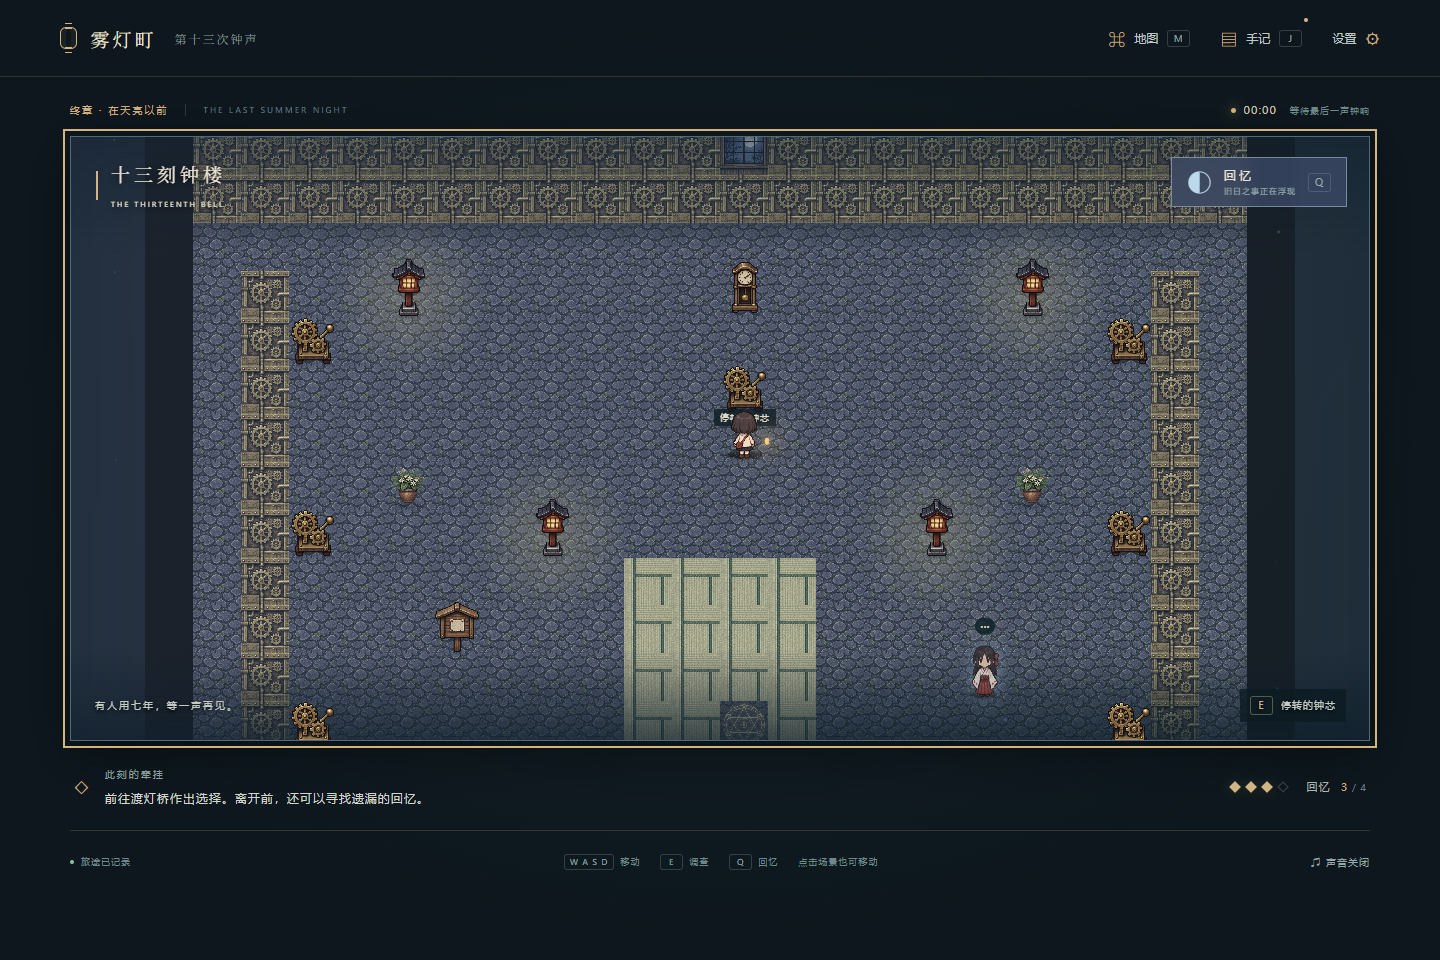
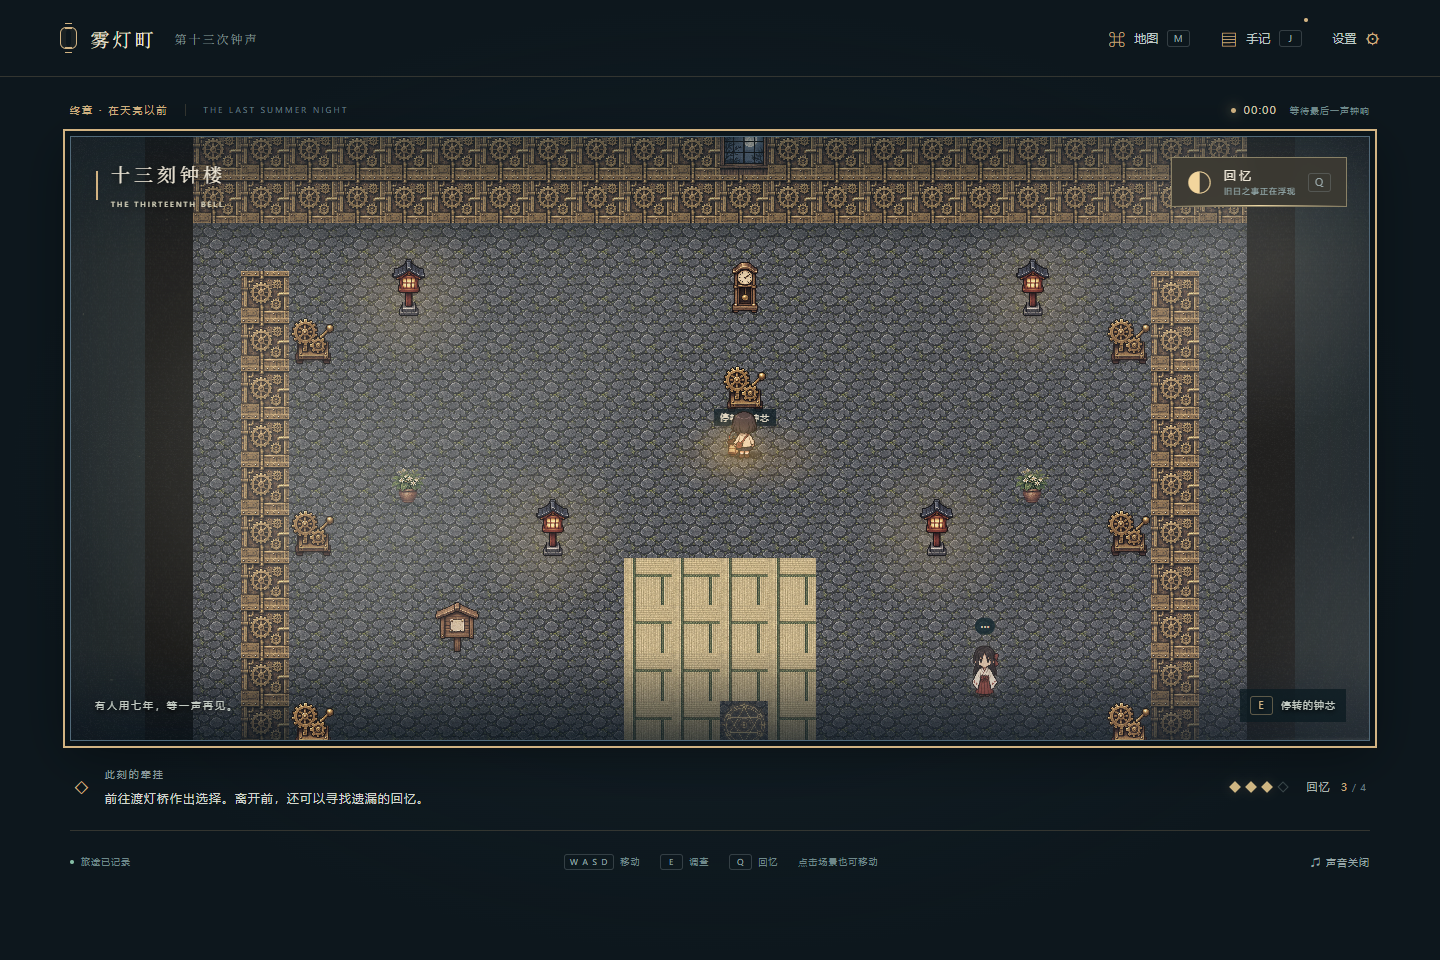
Give the guide lantern a sprite, light pool and layered memory atmosphere

diff --git a/game.js b/game.js
@@ -7,13 +7,16 @@
   let target = null, pendingObject = null, nearest = null, lastFrame = performance.now(), saveTick = 0, lastWalk = false;
   let route = [], movementSavePending = false, walkSheetReady = false;
   const motion=Move.create(),walkSheet=new Image();
+  let lanternPoint={x:0,y:0};
   walkSheet.onload=()=>{walkSheetReady=true;$('player').classList.add('has-walk-sheet');$('player').style.setProperty('--walk-ratio',(walkSheet.naturalWidth/3)/(walkSheet.naturalHeight/4));};
   walkSheet.src='assets/mio-walk-v2.png';
   let dialogueLines = [], dialogueIndex = 0, dialogueEnd = null, typeTimer = null, typing = false, currentText = '';
   let toastTimer = null, splashTimer = null, transitionTimer = null, transitioning = false, puzzle = null, storageWarning = false;
   const keys = new Set();
   const settings = Object.assign({ sound: false, instantText: false, particles: true }, read(KEYS.settings) || {});
-  const reducedMotion = window.matchMedia('(prefers-reduced-motion: reduce)').matches;
+  const motionPreference=window.matchMedia('(prefers-reduced-motion: reduce)');
+  let reducedMotion=motionPreference.matches;
+  motionPreference.addEventListener('change',event=>{reducedMotion=event.matches;});
   if (reducedMotion) settings.instantText = true;
   let unlocked = read(KEYS.collection);
   unlocked = Array.isArray(unlocked) ? unlocked.filter(x => C.ENDINGS.includes(x)) : [];
@@ -106,6 +109,10 @@
     player.dataset.tileX = state.player.x; player.dataset.tileY = state.player.y;
     $('world').dataset.zone = state.zone;
     player.style.zIndex = String(R.depth(visual.y));
+    const lamp=KiriLighting.pose(state.player.facing,walking,performance.now(),reducedMotion),lampNode=player.querySelector('.player-lantern'),size=R.view.tile;
+    lampNode.style.left=`calc(50% + ${lamp.x*size}px)`;lampNode.style.top=`calc(100% + ${lamp.y*size}px)`;
+    lampNode.style.setProperty('--lamp-angle',lamp.angle+'deg');lampNode.dataset.behind=String(lamp.behind);
+    lanternPoint={x:point.x+lamp.x*size,y:point.y+lamp.y*size};
     const frame=walking?motion.frame:1;
     player.querySelector('.sprite').style.backgroundPosition = `${walkSheetReady?frame*50:0}% ${state.player.facing * 100 / 3}%`;
     player.dataset.walkFrame=String(frame);player.dataset.facing=String(state.player.facing);
@@ -169,7 +176,7 @@
     S.phase(state.phase === 'echo'); renderWorld(); save();
     if (!state.seen.includes('echo-tutorial')) {
       state.seen.push('echo-tutorial');
-      toast('回忆中会出现褪去的文字与旧日的物件。蓝色光点能找回一段回忆。');
+      toast('回忆中会出现褪去的文字与旧日的物件。细小光点能找回一段回忆。');
     }
   }
   function interact(obj) {
@@ -391,7 +398,7 @@
       body += C.CLUES.map(id => { const clue = D.clues[id], found = state.clues.includes(id); return `<article class="journal-entry ${found ? '' : 'locked'}"><h3>${found ? clue.title : '尚未浮现的文字'}</h3><small>${clue.place}</small><p>${found ? clue.text : '在回忆中，调查这里留下的文字。'}</p></article>`; }).join('');
     } else if (tab === 'memories') {
       body += `<p class="journal-intro">不是只记住她做过什么，也要记住她为什么而活。<br>已找回 ${state.memories.length} / 4 段回忆。</p>`;
-      body += C.MEMORIES.map(id => { const m = D.memories[id], found = state.memories.includes(id); return `<article class="journal-entry ${found ? '' : 'locked'}"><h3>${found ? m.title : '一段还未找回的回忆'}</h3><small>${m.place} · 回忆</small><p>${found ? m.text : '按 Q 照见旧日，寻找这里的蓝色光点。'}</p></article>`; }).join('');
+      body += C.MEMORIES.map(id => { const m = D.memories[id], found = state.memories.includes(id); return `<article class="journal-entry ${found ? '' : 'locked'}"><h3>${found ? m.title : '一段还未找回的回忆'}</h3><small>${m.place} · 回忆</small><p>${found ? m.text : '按 Q 照见旧日，寻找这里的细小光点。'}</p></article>`; }).join('');
     } else {
       body += '<p class="journal-intro">一盏灯，承不起所有人的夜晚。<br>有人愿意和你一起，把名字留到明天。</p>';
       const bonds = [['promisedRen', '莲的约定', '回到车站，回应他希望带给栞的那句话。'], ['helpedNagi', '凪婆婆的纸灯', '在灯见街帮婆婆修好灯，听她把往事说完。'], ['heardShiori', '栞真正的心愿', '在钟楼的回忆中，听完姐姐未说出口的话。']];
@@ -412,7 +419,7 @@
   }
   function openSettings() {
     const hasManual = !!getSave(KEYS.manual);
-    const html = `<div class="body-copy"><p>这是一段可以慢慢走完的旅程。所有谜题都提供三层提示，试错不会失去物品。</p></div><div class="setting-row"><div><b>环境音乐</b><small>原创合成钟声与缓慢的钢琴音色。</small></div><button id="setting-sound">${S.enabled ? '已开启' : '已关闭'}</button></div><div class="setting-row"><div><b>对话直接显示</b><small>关闭逐字浮现；任意时刻也可按 E 显示全文。</small></div><button id="setting-text">${settings.instantText ? '已开启' : '已关闭'}</button></div><div class="setting-row"><div><b>漂浮光点</b><small>减少场景中的环境动画。</small></div><button id="setting-particles">${settings.particles ? '已开启' : '已关闭'}</button></div><div class="help-grid"><div><kbd>WASD / ↑↓←→</kbd> 移动</div><div><kbd>E / Enter</kbd> 调查、继续</div><div><kbd>Q</kbd> 现世 / 回忆</div><div><kbd>J</kbd> 澪的手记</div><div><kbd>M</kbd> 旧地图</div><div><kbd>Esc</kbd> 关闭窗口</div></div><div class="body-copy"><p>点击地面可移动，点击人物或光点会自动走近并调查。手机可使用屏幕方向键。回忆中的蓝色光点能找回故事片段。</p><p>进度会自动保存在当前浏览器。请用同一个地址和浏览器继续；清理网站数据会删除存档。</p></div>${state && screen === 'play' ? `<div class="modal-actions"><button class="subtle-button" id="load-manual" ${hasManual ? '' : 'disabled'}>读取手动存档</button><button id="save-manual" class="button primary">手动存档 ⟶</button></div>` : ''}`;
+    const html = `<div class="body-copy"><p>这是一段可以慢慢走完的旅程。所有谜题都提供三层提示，试错不会失去物品。</p></div><div class="setting-row"><div><b>环境音乐</b><small>原创合成钟声与缓慢的钢琴音色。</small></div><button id="setting-sound">${S.enabled ? '已开启' : '已关闭'}</button></div><div class="setting-row"><div><b>对话直接显示</b><small>关闭逐字浮现；任意时刻也可按 E 显示全文。</small></div><button id="setting-text">${settings.instantText ? '已开启' : '已关闭'}</button></div><div class="setting-row"><div><b>漂浮光点</b><small>减少场景中的环境动画。</small></div><button id="setting-particles">${settings.particles ? '已开启' : '已关闭'}</button></div><div class="help-grid"><div><kbd>WASD / ↑↓←→</kbd> 移动</div><div><kbd>E / Enter</kbd> 调查、继续</div><div><kbd>Q</kbd> 现世 / 回忆</div><div><kbd>J</kbd> 澪的手记</div><div><kbd>M</kbd> 旧地图</div><div><kbd>Esc</kbd> 关闭窗口</div></div><div class="body-copy"><p>点击地面可移动，点击人物或光点会自动走近并调查。手机可使用屏幕方向键。回忆中闪动的细小光点能找回故事片段。</p><p>进度会自动保存在当前浏览器。请用同一个地址和浏览器继续；清理网站数据会删除存档。</p></div>${state && screen === 'play' ? `<div class="modal-actions"><button class="subtle-button" id="load-manual" ${hasManual ? '' : 'disabled'}>读取手动存档</button><button id="save-manual" class="button primary">手动存档 ⟶</button></div>` : ''}`;
     openModal('旅途设置', 'MAKE YOURSELF AT HOME', 'settings', html);
     $('setting-sound').onclick = async () => { await toggleSound(); if (modalKind === 'settings') $('setting-sound').textContent = S.enabled ? '已开启' : '已关闭'; };
     $('setting-text').onclick = () => { settings.instantText = !settings.instantText; write(KEYS.settings, settings); $('setting-text').textContent = settings.instantText ? '已开启' : '已关闭'; };
@@ -536,7 +543,6 @@
   window.addEventListener('pagehide', save);
   document.addEventListener('visibilitychange', () => { keys.clear(); clearTarget(); lastFrame = performance.now(); if (state) save(); });
   const ctx = $('atmosphere').getContext('2d');
-  const motes = Array.from({ length: 22 }, (_, i) => ({ x: ((i * 137.51) % 100) / 100, y: ((i * 53.29) % 100) / 100, speed: .13 + i % 4 * .08, size: i % 3 ? 1 : 2 }));
   let canvasWidth = 1, canvasHeight = 1;
   function resizeCanvas() {
     const rect = $('world').getBoundingClientRect(); if (!rect.width) return;
@@ -548,15 +554,7 @@
   window.addEventListener('resize', resizeCanvas);
   function paintAtmosphere(time) {
     if (!ctx) return;
-    ctx.clearRect(0, 0, canvasWidth, canvasHeight);
-    if (!settings.particles || reducedMotion) return;
-    const echo = state?.phase === 'echo';
-    motes.forEach((m, i) => {
-      const x = ((m.x + time * .000004 * m.speed) % 1) * canvasWidth;
-      const y = (m.y + Math.sin(time * .00025 + i) * .04) * canvasHeight;
-      ctx.fillStyle = echo ? `rgba(190,218,240,${.18 + Math.sin(time * .001 + i) * .12})` : `rgba(243,216,156,${.13 + Math.sin(time * .001 + i) * .1})`;
-      ctx.fillRect(x, y, m.size, m.size);
-    });
+    KiriLighting.paint(ctx,{width:canvasWidth,height:canvasHeight,tile:R.view.tile,view:R.view,point:R.project(Move.visual(motion,state.player)),lantern:lanternPoint,phase:state.phase,time,lit:!!state.flags.lantern,particles:settings.particles,reduced:reducedMotion});
   }
   function loop(now) {
     const dt = Math.min((now - lastFrame) / 1000, .05); lastFrame = now;

diff --git a/lighting.js b/lighting.js
@@ -1,0 +1,83 @@
+/* Light, depth fog and a restrained photographic memory atmosphere. */
+(function(root){
+  'use strict';
+  const lanternImage=new Image();lanternImage.src='assets/guide-lantern.png';
+  let phase=null,phaseAt=-10000,lastTime=0,mix=0,fogCanvas,grain;
+  // Anchored to the carrying hand, including the hidden far hand when facing north.
+  function pose(facing,walking,time,reduced=false){
+    const offsets=[{x:.30,y:-.25},{x:-.29,y:-.26},{x:.30,y:-.26},{x:-.24,y:-.30}];
+    const anchor=offsets[facing]||offsets[0],swing=reduced?0:Math.sin(time*(walking?.012:.002));
+    return {x:anchor.x+(walking?swing*.018:0),y:anchor.y+(walking?Math.abs(swing)*.025:0),angle:reduced?0:swing*(walking?8:2),behind:facing===3};
+  }
+  function radial(pen,x,y,r,inner,outer){
+    const g=pen.createRadialGradient(x,y,0,x,y,r);g.addColorStop(0,inner);g.addColorStop(1,outer);pen.fillStyle=g;pen.fillRect(x-r,y-r,r*2,r*2);
+  }
+  function noise(){
+    if(grain)return grain;
+    grain=document.createElement('canvas');grain.width=grain.height=128;
+    const pen=grain.getContext('2d'),data=pen.createImageData(128,128);
+    let seed=1927;for(let i=0;i<data.data.length;i+=4){seed=(Math.imul(seed,1664525)+1013904223)>>>0;const value=seed>>>24;data.data[i]=data.data[i+1]=data.data[i+2]=value;data.data[i+3]=value%3===0?35:0;}
+    pen.putImageData(data,0,0);return grain;
+  }
+  function paint(pen,{width,height,tile,view,point,lantern,phase:next,time,lit,particles,reduced}){
+    if(phase===null){phase=next;mix=next==='echo'?1:0;}
+    if(next!==phase){phase=next;phaseAt=time;}
+    const dt=Math.min(64,Math.max(0,time-lastTime));lastTime=time;
+    const target=next==='echo'?1:0;mix=reduced?target:mix+(target-mix)*(1-Math.exp(-dt/320));
+    const t=reduced||!particles?0:time,focus=lit?lantern:point;
+    pen.clearRect(0,0,width,height);pen.save();
+    // A warm pool sits on the ground; it remains when decorative particles are off.
+    if(lit){
+      pen.save();pen.translate(point.x+tile*.12,point.y-tile*.04);pen.scale(1,.43);pen.globalCompositeOperation='screen';
+      radial(pen,0,0,tile*(1.55+mix*.35),`rgba(250,182,84,${.15+mix*.07})`,'rgba(250,182,84,0)');pen.restore();
+    }
+    if(mix>.003){
+      // Low-resolution translucent fog, cleared around the lantern instead of hiding exits.
+      if(!fogCanvas)fogCanvas=document.createElement('canvas');
+      const fw=Math.ceil(width/2),fh=Math.ceil(height/2);
+      if(fogCanvas.width!==fw||fogCanvas.height!==fh){fogCanvas.width=fw;fogCanvas.height=fh;}
+      const fog=fogCanvas.getContext('2d');fog.setTransform(.5,0,0,.5,0,0);fog.clearRect(0,0,width,height);
+      for(let i=0;i<7;i++){
+        const radius=tile*(3.6+i%3),span=width+radius*2;
+        const x=((i*width*.31+t*.004*(i%2?1:-1)-view.x*tile*.18)%span+span)%span-radius;
+        const y=height*(.18+(i%4)*.24)+Math.sin(t*.00012+i)*tile*.35;
+        radial(fog,x,y,radius,`rgba(217,218,205,${.11*mix})`,'rgba(217,218,205,0)');
+      }
+      for(let i=0;i<3;i++){
+        const x=width*(.18+i*.32)+Math.sin(t*.00015+i)*tile*1.5-view.x*tile*.08,y=height*(.28+i*.29);
+        fog.save();fog.translate(x,y);fog.scale(2.8,.32);
+        radial(fog,0,0,tile*2.1,`rgba(236,225,201,${.14*mix})`,'rgba(236,225,201,0)');fog.restore();
+      }
+      if(lit){fog.globalCompositeOperation='destination-out';radial(fog,focus.x,focus.y,tile*2.8,'rgba(0,0,0,.95)','rgba(0,0,0,0)');fog.globalCompositeOperation='source-over';}
+      pen.drawImage(fogCanvas,0,0,width,height);
+      pen.globalAlpha=mix*.28;pen.fillStyle=pen.createPattern(noise(),'repeat');pen.fillRect(0,0,width,height);pen.globalAlpha=1;
+    }
+    // Peripheral depth: edges recede while the route immediately around Mio stays clear.
+    const edge=pen.createRadialGradient(point.x,point.y-tile*.45,tile*1.1,point.x,point.y-tile*.45,Math.max(width,height)*.73);
+    edge.addColorStop(0,'rgba(15,21,28,0)');edge.addColorStop(.5,`rgba(22,25,33,${.035+mix*.035})`);edge.addColorStop(1,`rgba(18,22,33,${.12+mix*.23})`);pen.fillStyle=edge;pen.fillRect(0,0,width,height);
+    if(lit){
+      pen.save();pen.globalCompositeOperation='screen';
+      const breath=reduced?1:1+Math.sin(t*.003)*.035;
+      radial(pen,focus.x,focus.y,tile*.78*breath,`rgba(255,209,126,${.18+mix*.08})`,'rgba(255,209,126,0)');pen.restore();
+    }
+    if(particles&&!reduced){
+      for(let i=0;i<(mix>.1?26:12);i++){
+        const x=((i*.6180339+t*.000004*(1+i%3))%1)*width;
+        const y=((i*.38197-t*.000009*(1+i%2))%1+1)%1*height;
+        pen.fillStyle=`rgba(${mix>.5?'240,224,181':'242,211,145'},${.10+mix*.12+Math.sin(t*.001+i)*.06})`;pen.fillRect(x,y,i%4?1:2,1);
+      }
+      if(lit)for(let i=0;i<5;i++){
+        const life=(t*.00028+i*.2)%1,x=focus.x+Math.sin(life*5+i*2)*tile*.15,y=focus.y-life*tile*1.1;
+        pen.fillStyle=`rgba(255,219,151,${Math.sin(life*Math.PI)*.5})`;pen.fillRect(x,y,1,i%2?1:2);
+      }
+    }
+    const age=time-phaseAt;
+    if(!reduced&&age>=0&&age<1100){
+      const progress=age/1100,radius=tile*(.4+progress*5.5);
+      pen.strokeStyle=`rgba(243,226,184,${Math.sin(progress*Math.PI)*.13})`;pen.lineWidth=tile*.055;
+      pen.beginPath();pen.ellipse(focus.x,focus.y,radius,radius*.65,0,0,Math.PI*2);pen.stroke();
+    }
+    pen.restore();
+  }
+  root.KiriLighting={pose,paint,assetsReady:()=>lanternImage.complete&&lanternImage.naturalWidth>0};
+})(globalThis);

diff --git a/world.js b/world.js
@@ -178,7 +178,7 @@
         node.style.zIndex=String(depth(b.frontY-.92));
         const pen=node.getContext('2d');pen.imageSmoothingEnabled=false;
         paintBuilding(pen,map,b,size,(b.x-.6)*size,(b.y-.1)*size);
-        pen.globalCompositeOperation='source-atop';pen.fillStyle=phase==='echo'?'rgba(59,84,123,.19)':'rgba(5,22,38,.22)';pen.fillRect(0,0,node.width,node.height);
+        pen.globalCompositeOperation='source-atop';pen.fillStyle=phase==='echo'?'rgba(226,210,174,.07)':'rgba(5,22,38,.22)';pen.fillRect(0,0,node.width,node.height);
         buildings.appendChild(node);return {b,node};
       });
     }
@@ -209,7 +209,7 @@
       }
     }
     drawPlatform(ctx,map,view.tile,originX,originY);
-    ctx.fillStyle = phase === 'echo' ? 'rgba(59,84,123,.19)' : 'rgba(5,22,38,.22)'; ctx.fillRect(0, 0, view.width, view.height);
+    ctx.fillStyle = phase === 'echo' ? 'rgba(226,210,174,.07)' : 'rgba(5,22,38,.22)'; ctx.fillRect(0, 0, view.width, view.height);
     map.lights.forEach(({x,y})=>{
       const p = project({ x, y: y - .35 }), radius = view.tile * 1.7;
       if (p.x < -radius || p.x > view.width + radius || p.y < -radius || p.y > view.height + radius) return;
@@ -237,5 +237,5 @@
     map.props.forEach(p=>{const pose=root.KiriMaps.attachmentPose(zone,p);layers.push({z:pose?depth(pose.building.frontY-.92,1):depth(p.y,-1),draw:()=>{const {source,columns,rows,sprite}=propFrame(p,solved);if(!source.complete||!source.naturalWidth)return;const sw=source.naturalWidth/columns,sh=source.naturalHeight/rows,extent=p.size*size,x=pose?pose.x:p.x+.5,y=pose?pose.bottomY:p.y+.92;pen.drawImage(source,sprite%columns*sw+4,Math.floor(sprite/columns)*sh+4,sw-8,sh-8,x*size-extent*.5,y*size-extent*.985,extent,extent);}});});
     layers.sort((a,b)=>a.z-b.z).forEach(layer=>layer.draw());
   }
-  root.KiriRenderer = { view, resize, draw, project, unproject, thumbnail, depth, assetsReady:()=>[image,foliage,mountedImage,worldProps,stoneGrain,stationKit,craneImage].every(i=>i.complete&&i.naturalWidth>0) };
+  root.KiriRenderer = { view, resize, draw, project, unproject, thumbnail, depth, assetsReady:()=>[image,foliage,mountedImage,worldProps,stoneGrain,stationKit,craneImage].every(i=>i.complete&&i.naturalWidth>0)&&!!root.KiriLighting?.assetsReady() };
 })(globalThis);

diff --git a/style.css b/style.css
@@ -75,3 +75,21 @@
 
 /* World sprites share one foot-based depth range; HUD stays above the scene. */
 #buildings{pointer-events:none}.building-sprite{position:absolute;pointer-events:none;image-rendering:pixelated}.scene-label,.phase-button,.scene-bottom{z-index:10000}
+/* The guide lamp is a real sprite; memory is lit fog and old photographic paper. */
+.player .sprite{z-index:1}
+.player .player-lantern{width:calc(var(--tile-size)*.47);height:calc(var(--tile-size)*.62);right:auto;bottom:auto;background:url('assets/guide-lantern.png') center/100% 100% no-repeat;border-radius:0;box-shadow:none;z-index:2;transform:translate(-50%,-55%) rotate(var(--lamp-angle,0deg));transform-origin:50% 13%;image-rendering:pixelated;filter:drop-shadow(0 0 2px #ffdaa052)}
+.player .player-lantern[data-behind=true]{z-index:0;filter:brightness(.85)}
+.world.echo #tile-map,.world.echo .building-sprite{filter:saturate(.78) sepia(.16) contrast(.94) brightness(1.07)}
+#tile-map,.building-sprite{transition:filter .65s ease}
+.world.echo .scenery-art{filter:brightness(.97) saturate(.72) sepia(.14)}
+.world.echo .scene-prop{filter:brightness(1.02) saturate(.76) sepia(.13) drop-shadow(0 2px 1px #2d272540)}
+.world.echo .world-background{filter:saturate(.78) sepia(.16) contrast(.94)}
+.echo-wash{background:linear-gradient(135deg,#efe5cb08,transparent 45%,#8c8b9920);z-index:5900}
+#atmosphere{z-index:6000}
+.world.echo .phase-button{background:#3b3931ed;border-color:#d9c99a80}
+.world.echo .phase-icon{color:#f2d59d}
+.world.echo .phase-button:after{content:'';position:absolute;bottom:0;left:0;width:100%;height:1px;background:linear-gradient(90deg,transparent,#eed8a5,transparent)}
+.world.echo .object.echo-actor .sprite{filter:sepia(.15) drop-shadow(0 0 4px #e8dec45c);opacity:.86}
+.world.echo .object.memory .object-marker{color:#fff0c9}
+.chapter-splash{z-index:11000}.transition{z-index:12000}
+@media(prefers-reduced-motion:reduce){#tile-map,.building-sprite,.scenery-art{transition:none}.player .player-lantern{transform:translate(-50%,-55%)}}

diff --git a/index.html b/index.html
@@ -15,6 +15,7 @@
   <script defer src="data.js"></script>
   <script defer src="world.js"></script>
   <script defer src="audio.js"></script>
+  <script defer src="lighting.js"></script>
   <script defer src="game.js"></script>
 </head>
 <body>

diff --git a/docs/ART-PROMPTS.md b/docs/ART-PROMPTS.md
@@ -129,3 +129,13 @@ Use case: stylized-concept. Asset type: single 2x2 character portrait atlas for 
 Use case: stylized-concept. Asset type: transparent pixel-art character sprite sheet for an original Japanese overhead RPG. EXACT grid of 4 columns by 4 rows, each of the 16 equal cells contains one tiny FULL BODY character sprite centered in its cell with feet aligned 85% down the cell, consistent 32x48 pixel inspired chibi proportions, crisp pixel clusters, no shadows, transparent empty space. Four columns are the four characters: column 1 young Japanese heroine with short black bob, cream coat, dark skirt and little red satchel; column 2 older sister with long black hair, red ribbon, white shrine haori and muted red hakama; column 3 young Japanese male railway keeper with navy cap, indigo uniform and brass trim; column 4 elderly woman with silver bun, indigo kimono and amber scarf. Four rows are facing directions: row 1 facing camera SOUTH, row 2 facing WEST, row 3 facing EAST, row 4 back facing NORTH. Equal cell grid. A charming atmospheric Japanese indie RPG, cream navy teal and red colors. All 16 figures separated and inside their individual equal cells; no weapons, no backgrounds, no text, no labels, no watermarks. Genuine transparent background.
 ```
 
+
+## 引灯与回忆氛围
+
+新素材 `assets/guide-lantern.png` 由内置 image_gen 生成，参考主角行走图的像素风格，保留真实透明通道；未使用外部图片 API。光晕、雾气、颗粒与切换光纹为程序实时绘制。
+
+最终提示词：
+```
+Use case: stylized-concept. Asset type: original small pixel-art handheld lantern sprite for a top-down Japanese mystery RPG. Reference image is ONLY a style reference for the existing heroine's warm muted pixel art; do not depict the heroine.
+Create exactly ONE small hanging Japanese paper lantern, isolated on genuine transparent alpha background. A simple dark walnut wooden square frame, softly illuminated ivory washi paper panes, tiny antique brass top loop with a short curved carrying handle, modest bottom wooden foot. Three-quarter orthographic front view, clearly readable silhouette at 16-22 pixels tall. Keep restrained hand-painted pixel clusters, crisp stepped edges, NO anti-aliased vector icon look. Warm amber core and cream paper, dark brown structural outlines, a few subtle red cord pixels. No writing, no symbols, no letters, no background, no floor, no character, no prop sheet, no cast shadow, no baked external glow or haze. Lantern and handle fill about 90 percent image height, centered, with narrow transparent margin. Treat it as a practical 2D game sprite, not a photorealistic lantern or a detailed illustration.
+```

diff --git a/README.md b/README.md
@@ -46,6 +46,8 @@ npm start
 
 可调查物件带有细小的闪动十字光点，靠近或悬停时显示名称。已找回的回忆和已解开的机关会停止闪动。照片、手记与录音机分别放在长椅和书桌上，纸鹤悬挂在民居屋檐下。
 
+取得引灯后，主角会提着木框纸灯，四个朝向具有不同的手部位置，行走时灯笼轻轻摆动，暖光落在脚边。回忆采用褪色旧照片般的色调、分层薄雾、细小颗粒和缓慢上升的光尘，灯周围会散开雾气。切换时光纹轻轻向外扩散。关闭漂浮光点仍保留照明，系统“减少动态效果”会关闭摆动与扩散动画。
+
 石板砖缝按地图坐标连续铺设，跨越地图格子和镜头移动时保持对齐。灯、告示和家具使用透明图层，地面底色不会因摆放物件而变成另一块材质。
 
 车站按轨道、站台安全线、站房与候车区、检票栏杆、出站步道排列。检票口在谜题解开前会实际阻挡通行，打开后可沿步道进入小镇。民居采用较低的屋身比例，纸鹤通过红线挂在右侧民居门旁的屋檐下，位置随建筑结构计算。更新布局后，旧存档会保留故事与收集进度，并将人物放回安全入口。

diff --git a/docs/QA.md b/docs/QA.md
@@ -74,3 +74,5 @@
 - 浏览器在新布局重新完成全故事、四个结局和手机检查，并生成纸鹤近景预览。
 
 遮挡复查：新增浏览器断言覆盖站房/路障、花丛根部深度、人物连续移动的前后切换、纸鹤父建筑层级及场景 UI。另保存 preview-occlusion-behind.png、preview-occlusion-front.png 与 preview-occlusion-station.png 实景对照。
+
+引灯与回忆氛围：浏览器完整流程通过，新增检查覆盖透明灯笼素材、关闭光点后保留照明、系统减少动态效果实时切换、画面效果位于角色之上而场景按钮之下。`node tests/browser.cjs --lighting-only` 专项检查四朝向位置与朝北时的身体遮挡。预览保存为 preview-lantern-present.png、preview-lantern-detail.png、preview-memory.png。雾气采用半分辨率缓冲，颗粒纹理缓存复用。
